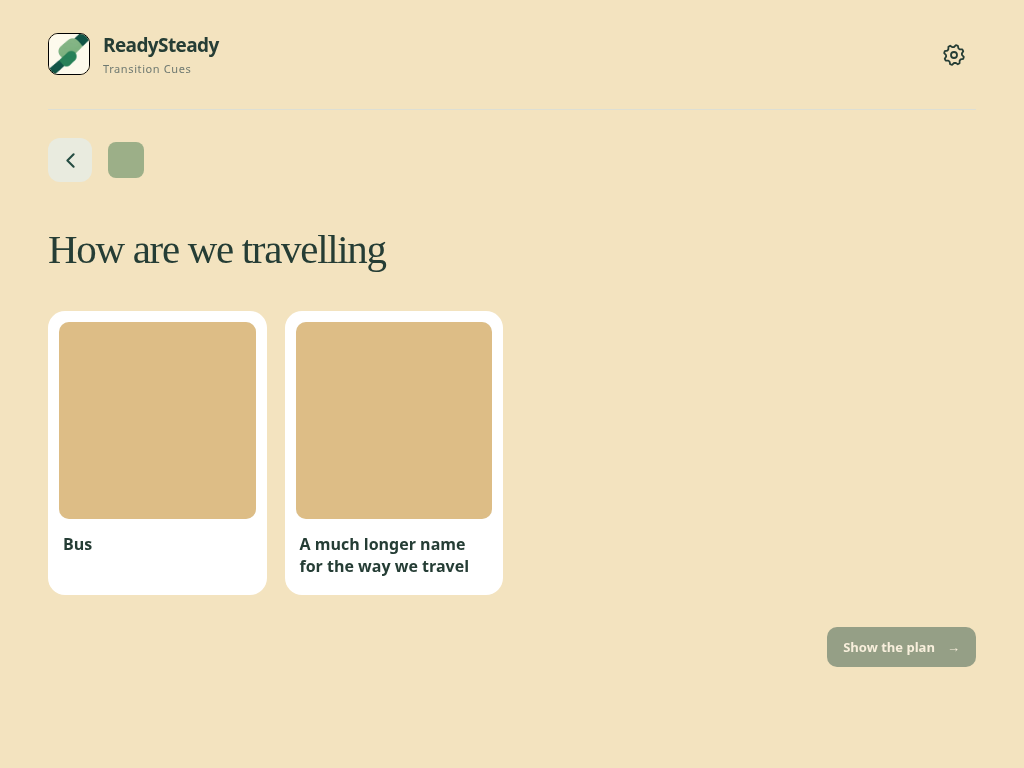
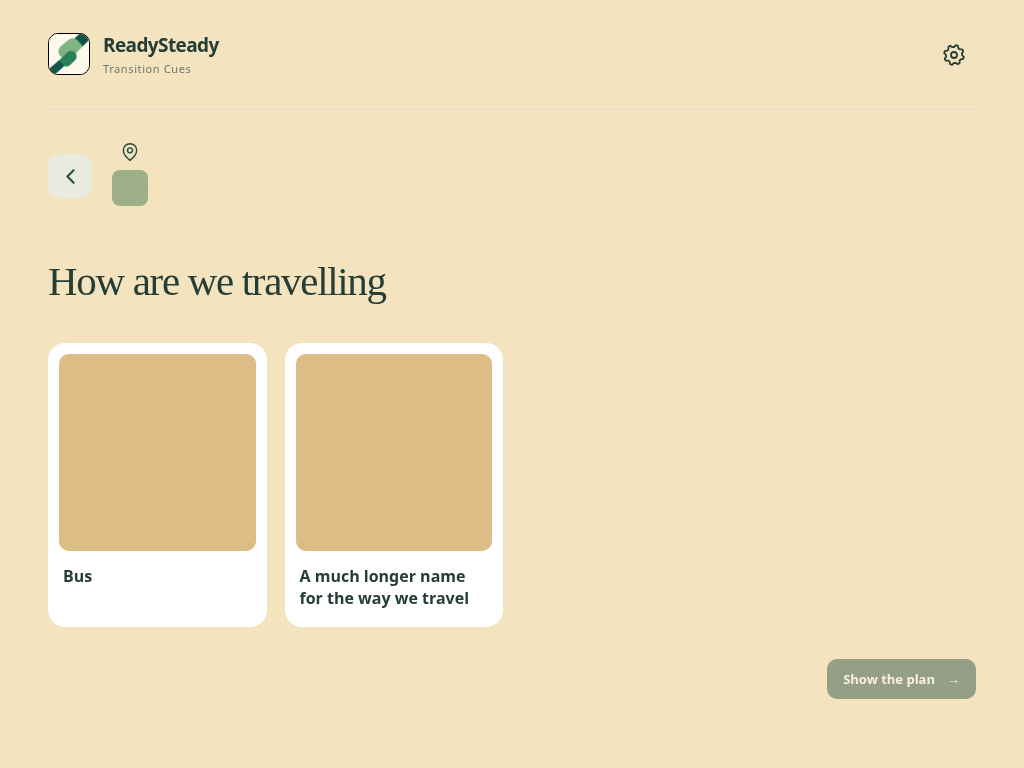
Add category glyphs and scrolling selections in v1.0.24

diff --git a/transition_cues/transition-cues-web/app.js b/transition_cues/transition-cues-web/app.js
@@ -56,13 +56,14 @@ function empty(kind) {
 }
 const planKinds=['places','transport','people','items'];
 function renderChoose(focusStep=false) {
+  const selectionScroll=$('.plan-thumbnails')?.scrollLeft||0;
   for(const kind of ['places','transport'])if(selected[kind])selected[kind]=state[kind].find(item=>item.id===selected[kind].id)||null;
   selected.items=selected.items.map(item=>state.items.find(x=>x.id===item.id)).filter(Boolean).slice(0,MAX_BRING_ITEMS);
   selected.people=selected.people.map(item=>state.people.find(x=>x.id===item.id)).filter(Boolean);
   if(!selected.places){selected.transport=null;selected.items=[];selected.people=[];planStep=0;}
   else if(!selected.transport){selected.items=[];selected.people=[];planStep=Math.min(planStep,1);}
   planStep=Math.min(planStep,2);
-  const thumbnails=planKinds.flatMap((key,index)=>(Array.isArray(selected[key])?selected[key]:selected[key]?[selected[key]]:[]).map(item=>`<button type="button" class="plan-thumbnail ${key==='people'?'person-thumbnail':''}" data-edit-step="${Math.min(index,2)}" data-edit-kind="${key}" aria-label="Change ${key==='places'?'place':key==='items'?'item':key==='people'?'person':'transport'}: ${esc(item.name)}" title="${esc(item.name)}"><img src="${esc(item.image)}" alt=""></button>`)).join('');
+  const thumbnails=planKinds.flatMap((key,index)=>(Array.isArray(selected[key])?selected[key]:selected[key]?[selected[key]]:[]).map((item,itemIndex)=>`<span class="plan-selection"><span class="plan-category" aria-hidden="true">${itemIndex===0?`<svg viewBox="0 0 24 24" fill="none" stroke="currentColor" stroke-width="1.7" stroke-linecap="round" stroke-linejoin="round">${uploadCategories.find(([kind])=>kind===key)[2]}</svg>`:''}</span><button type="button" class="plan-thumbnail ${key==='people'?'person-thumbnail':''}" data-edit-step="${Math.min(index,2)}" data-edit-kind="${key}" aria-label="Change ${key==='places'?'place':key==='items'?'item':key==='people'?'person':'transport'}: ${esc(item.name)}" title="${esc(item.name)}"><img src="${esc(item.image)}" alt=""></button></span>`)).join('');
   const progress=selected.places?`<div class="plan-progress" aria-label="Your selections">${planStep>0?`<button id="previousStep" type="button" class="step-back" aria-label="Previous selection" title="Previous selection">${backIcon}</button>`:''}<div class="plan-thumbnails">${thumbnails}</div></div>`:'';
   function cards(kind) {
     const multi=kind==='people'||kind==='items';
@@ -76,6 +77,7 @@ function renderChoose(focusStep=false) {
   const heading=`<div class="intro wizard-heading"><div><h1 id="planHeading" tabindex="-1">${title}</h1>${planStep===2?'<p class="optional-label">Optional</p>':''}</div></div>`;
   const choices=planStep===2?`${cards('people')}<section class="optional-items" aria-labelledby="itemsHeading"><div class="intro wizard-heading"><div><h2 id="itemsHeading" tabindex="-1">What is coming with us</h2><p class="optional-label">Optional</p><p class="items-guidance">Choose up to 4 items</p></div><small id="itemCount" role="status">${selected.items.length}/${MAX_BRING_ITEMS}</small></div>${cards('items')}</section>`:cards(planStep===0?'places':'transport');
   frame(progress+`<section id="planStep" data-step="${planStep}" aria-labelledby="planHeading">${heading}${choices}</section><div class="journey-bar wizard-actions" ${selected.places?'':'hidden'}><button id="start" class="primary" ${selected.places&&selected.transport?'':'disabled'}>Show the plan <span aria-hidden="true">→</span></button></div>`,'choose');
+  if($('.plan-thumbnails'))$('.plan-thumbnails').scrollLeft=selectionScroll;
   app.querySelectorAll('[data-kind]').forEach(button=>button.onclick=()=>{
     const kind=button.dataset.kind, item=state[kind].find(x=>x.id===button.dataset.id);
     if(kind==='people'||kind==='items'){

diff --git a/transition_cues/transition-cues-web/style.css b/transition_cues/transition-cues-web/style.css
@@ -51,7 +51,7 @@
 .settings-segments{display:flex;gap:4px;padding:5px;margin:0 0 28px;border:1px solid #d3d9ca;border-radius:14px;background:#e7ebdf;width:min(100%,440px)}.settings-segments [role=tab]{display:flex;align-items:center;justify-content:center;gap:9px;flex:1;min-width:0;min-height:46px;padding:10px 12px;border-radius:10px;color:var(--green);background:transparent;font-size:14px;font-weight:600}.settings-segments [role=tab][aria-selected=true]{background:var(--surface);box-shadow:0 2px 7px #253d351a}.settings-segments svg{width:21px;height:21px;flex:none}#settingsPanel{margin-bottom:28px}
 
 /* One choice at a time, with compact editable selection thumbnails. */
-.header .header-back,.step-back{display:inline-flex;align-items:center;justify-content:center;width:44px;height:44px;min-height:44px;padding:0;border-radius:12px;background:#e9ebdf;color:var(--green);flex:none}.header-back svg,.step-back svg{width:25px;height:25px}.header-title{margin:0 0 0 auto;font:normal clamp(28px,4vw,36px)/1.15 var(--serif);text-align:right}.settings-segments{margin-top:28px}.plan-progress{display:flex;align-items:center;gap:12px;margin:28px 0;min-height:44px}.plan-thumbnails{display:flex;flex-wrap:wrap;gap:6px;min-width:0}.plan-thumbnail{width:44px;height:44px;padding:4px;background:transparent;border-radius:10px;flex:none}.plan-thumbnail img{display:block;width:36px;height:36px;object-fit:cover;border-radius:8px}.person-thumbnail img{border-radius:50%}.wizard-actions{justify-content:flex-end;flex-wrap:wrap}.wizard-actions #nextStep{margin-right:auto;min-height:40px;font-size:13px;padding:10px 14px}@media(max-width:620px){.wizard-actions{flex-direction:row;align-items:center}.wizard-actions .secondary{width:auto}.plan-progress{margin:22px 0}}
+.header .header-back,.step-back{display:inline-flex;align-items:center;justify-content:center;width:44px;height:44px;min-height:44px;padding:0;border-radius:12px;background:#e9ebdf;color:var(--green);flex:none}.header-back svg,.step-back svg{width:25px;height:25px}.header-title{margin:0 0 0 auto;font:normal clamp(28px,4vw,36px)/1.15 var(--serif);text-align:right}.settings-segments{margin-top:28px}.plan-progress{display:flex;align-items:center;gap:12px;margin:28px 0;min-height:44px}.plan-thumbnails{display:flex;flex-wrap:nowrap;gap:6px;min-width:0;flex:1;overflow-x:auto;padding:4px;scroll-padding:4px}.plan-selection{display:flex;flex-direction:column;align-items:center;gap:4px;flex:none}.plan-category{display:flex;align-items:center;justify-content:center;width:44px;height:20px;color:var(--green)}.plan-category svg{width:20px;height:20px}.plan-thumbnail{width:44px;height:44px;padding:4px;background:transparent;border-radius:10px;flex:none}.plan-thumbnail img{display:block;width:36px;height:36px;object-fit:cover;border-radius:8px}.person-thumbnail img{border-radius:50%}.wizard-actions{justify-content:flex-end;flex-wrap:wrap}.wizard-actions #nextStep{margin-right:auto;min-height:40px;font-size:13px;padding:10px 14px}@media(max-width:620px){.wizard-actions{flex-direction:row;align-items:center}.wizard-actions .secondary{width:auto}.plan-progress{margin:22px 0}}
 .wizard-actions{background:transparent;border:0;box-shadow:none;padding:0}
 
 .wizard-heading{margin:32px 0 26px;align-items:center}.wizard-heading h2{font:normal clamp(32px,4vw,48px)/1.15 var(--serif);letter-spacing:-1.3px;margin:12px 0}.wizard-heading small{font-size:12px;color:var(--muted);flex:none}.optional-items{margin-top:40px}.wizard-heading .items-guidance{font-size:14px;margin-top:5px}@media(max-width:620px){.wizard-heading{display:flex;gap:12px;align-items:flex-start}.wizard-heading small{padding-top:18px;max-width:90px;text-align:right}.optional-items{margin-top:32px}}

diff --git a/tests/browser_display.py b/tests/browser_display.py
@@ -111,6 +111,20 @@ def run(engine):
                     for item_kind,name in names:
                         if kind==item_kind:page.get_by_role('button',name=name,exact=True).click()
                 expect(page.locator('.plan-thumbnail')).to_have_count(6)
+                # A narrow phone keeps all selections on one line and scrolls within the row.
+                page.set_viewport_size({'width':320,'height':844})
+                expect(page.locator('.plan-category svg')).to_have_count(4)
+                boxes=[thumb.bounding_box() for thumb in page.locator('.plan-thumbnail').all()]
+                assert max(box['y'] for box in boxes)-min(box['y'] for box in boxes)<1
+                assert page.locator('.plan-thumbnails').evaluate('(row) => row.scrollWidth > row.clientWidth')
+                assert page.evaluate('document.documentElement.scrollWidth <= window.innerWidth')
+                page.locator('.plan-thumbnails').evaluate('(row) => row.scrollLeft = row.scrollWidth')
+                assert page.locator('.plan-thumbnails').evaluate('(row) => row.scrollLeft > 0')
+                page.locator('[data-edit-kind="items"]').last.click()
+                expect(page.locator('#itemsHeading')).to_be_focused()
+                assert page.locator('.plan-thumbnails').evaluate('(row) => row.scrollLeft > 0')
+                page.screenshot(path='/tmp/readysteady-scrolling-selections.png',full_page=True)
+                page.set_viewport_size({'width':1280,'height':900})
                 page.locator('[data-edit-step="0"]').click()
                 expect(page.locator('#planStep')).to_have_attribute('data-step','0')
                 expect(page.locator('[data-kind="places"][aria-pressed="true"]')).to_have_count(1)

diff --git a/tests/container_smoke.py b/tests/container_smoke.py
@@ -81,5 +81,5 @@ print('PASS: replacement container preserves library and images in /data')
 
 if __name__ == '__main__':
     parser = argparse.ArgumentParser()
-    parser.add_argument('--image', default='transition-cues-ha-check:1.0.23')
+    parser.add_argument('--image', default='transition-cues-ha-check:1.0.24')
     run(parser.parse_args().image)

diff --git a/transition_cues/CHANGELOG.md b/transition_cues/CHANGELOG.md
@@ -1,5 +1,10 @@
 # Changelog
 
+## 1.0.24
+
+- Add category glyphs above the selected place, transport, first person and first item.
+- Keep selected pictures in one horizontally scrollable row.
+
 ## 1.0.23
 
 - Remove the People selection counter and simplify the Items counter to x/4.
